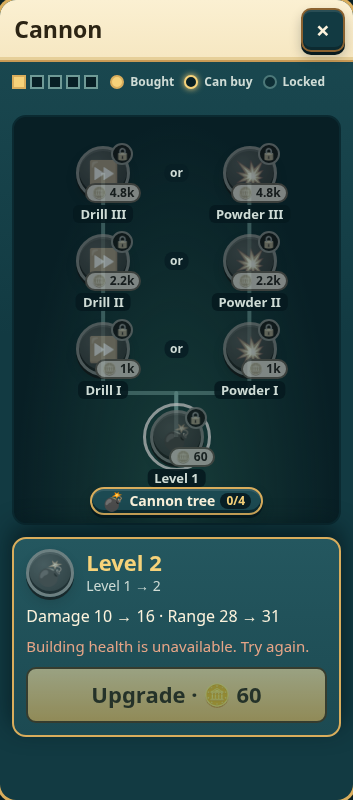
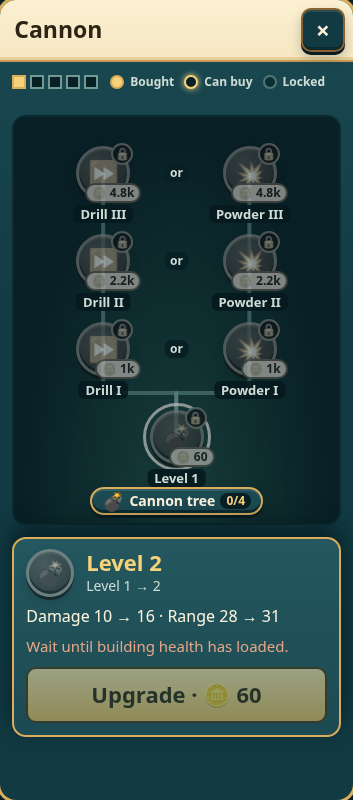
fix(T59): explain disabled upgrade while health loads

Changed region(s): [[0.0623, 0.7812, 0.8725, 0.8438]]

diff --git a/frontend/tests/island/structure-recovery-policy.test.js b/frontend/tests/island/structure-recovery-policy.test.js
@@ -150,7 +150,8 @@ it('does not downgrade a persisted v1 island when the structure endpoint says fe
     island.pick('cannon_1');
     await new Promise(resolve => setTimeout(resolve, 50));
     const upgrade = document.querySelector('.island-card[open] [data-focus="upgrade"]');
-    const tower = {message: document.querySelector('.recovery-message')?.textContent ?? '', upgradeDisabled: upgrade?.disabled ?? null};
+    const tower = {message: document.querySelector('.recovery-message')?.textContent ?? '', upgradeDisabled: upgrade?.disabled ?? null,
+      upgradeReason: document.querySelector('.island-card[open] .island-reason')?.textContent ?? ''};
     island.dispose();
     return {wall, tower};
     }, {retainForCapture: !!captureDir});
@@ -168,7 +169,8 @@ it('does not downgrade a persisted v1 island when the structure endpoint says fe
       island.pick('cannon_1');
       await new Promise(resolve => setTimeout(resolve, 50));
       const upgrade = document.querySelector('.island-card[open] [data-focus="upgrade"]');
-      return {message: document.querySelector('.recovery-message')?.textContent ?? '', upgradeDisabled: upgrade?.disabled ?? null};
+      return {message: document.querySelector('.recovery-message')?.textContent ?? '', upgradeDisabled: upgrade?.disabled ?? null,
+        upgradeReason: document.querySelector('.island-card[open] .island-reason')?.textContent ?? ''};
     });
     await page.setViewportSize({width: 375, height: 812});
     await page.locator('.island-card[open]').screenshot({path: join(captureDir, 't59-policy-fallback-cannon-phone.png')});
@@ -176,7 +178,8 @@ it('does not downgrade a persisted v1 island when the structure endpoint says fe
     return {...fixture, tower};
   });
   expect(result.wall).toEqual({message: 'Building health could not be loaded.', legacyRepair: false, policyVersion: 1});
-  expect(result.tower).toEqual({message: 'Building health could not be loaded.', upgradeDisabled: true});
+  expect(result.tower).toEqual({message: 'Building health could not be loaded.', upgradeDisabled: true,
+    upgradeReason: 'Wait until building health has loaded.'});
 });
 
 it('keeps a previously discovered v1 policy when a later structure read says feature_off', async () => {

diff --git a/frontend/tests/island/card-model.test.js b/frontend/tests/island/card-model.test.js
@@ -38,6 +38,22 @@ describe('build card (TOWER-DEFENSE.md §2, §9)', () => {
     expect(paths.tree.detail).toMatchObject({action: {type: 'tree', path: 'a', tier: 1}, disabled: false});
   });
 
+  it('keeps upgrades disabled with a health-load helper until canonical health is ready', () => {
+    const recovery = {recoveryVersion: 1, waveProtocol: 2, islandEpoch: '32345678-1234-4234-8234-123456789abc',
+      waveId: null, displayPhase: 'between_waves', repairWindow: 'between_waves', structures: [
+        {spot: 'cannon_1', instanceId: '22345678-1234-4234-8234-123456789abc', kind: 'cannon', level: 1,
+          hpUnits: 1_000_000, maxHP: 90, fixedPrice: 45, repairSeq: 0}]};
+    const card = recoveryStatus => buildCardModel({spotId: 'cannon_1', slot: 'tower', spot: tower(true), coins: 10_000,
+      unlocks: wave3, campaign: atWave(50), treePicked: 'level', recoveryState: recovery, recoveryStatus});
+
+    for (const status of ['loading', 'error']) {
+      expect(card(status)).toMatchObject({button: 'Upgrade', disabled: true, reason: 'Wait until building health has loaded.',
+        tree: {detail: {action: {type: 'upgrade'}, disabled: true, reason: 'Wait until building health has loaded.'}}});
+    }
+    expect(card('ready')).toMatchObject({button: 'Upgrade', disabled: false, reason: '',
+      tree: {detail: {action: {type: 'upgrade'}, disabled: false, reason: ''}}});
+  });
+
   it('an empty tower spot offers the unlocked kinds, one line and price each', () => {
     const start = buildCardModel({spotId: 'cannon_1', slot: 'tower', spot: tower(), coins: 100, unlocks: fresh});
     expect(start).toMatchObject({mode: 'choose', title: 'Tower spot', soon: '', coins: 'You have 🪙 100'});

diff --git a/frontend/src/island/card-model.js b/frontend/src/island/card-model.js
@@ -118,7 +118,7 @@ export function buildCardModel({spotId, kind, slot = null, spot = null, coins = 
     ? recoveryState.structures?.find(item => item.spot === spotId) : null;
   if (shown === 'wall' && recoveryRow) model.stats = model.stats.replace(/^Strength\b/, 'Base strength');
   const recoveryUnavailable = recoveryStatus === 'loading' || recoveryStatus === 'error';
-  const upgradeBlockedReason = recoveryUnavailable ? 'Building health is unavailable. Try again.'
+  const upgradeBlockedReason = recoveryUnavailable ? 'Wait until building health has loaded.'
     : recoveryRow && recoveryState.recoveryVersion === 1
     ? recoveryState.repairWindow === 'reserved_wave' ? 'Upgrades are available between waves.'
       : recoveryRow.hpUnits < 1_000_000 ? 'Repair to full before an upgrade.' : ''

diff --git a/specs/T59-recovery-policy-fallback.md b/specs/T59-recovery-policy-fallback.md
@@ -17,6 +17,8 @@ When the target island or the last canonical structure response identifies recov
 
 The browser fixture regression covers both a first `feature_off` response with canonical island version 1 and a later `feature_off` after recovery v1 was learned from a successful structure response. It checks that the error appears, legacy wall Repair stays hidden, tower upgrades stay disabled, and a later successful read restores the card. The fixture also exercises the existing version-0 fallback.
 
+While canonical health is loading or unavailable, an eligible Upgrade stays visible, greyed out and disabled with the small helper line “Wait until building health has loaded.” The separate health-load error and retry feedback remain visible. When canonical health is ready, the existing between-wave and full-HP eligibility rules apply.
+
 Focused frontend verification: `./node_modules/.bin/vitest run --maxWorkers=1 tests/island/structure-recovery-policy.test.js tests/island/structure-recovery-upgrade-dom.test.js tests/island/structure-recovery-card.test.js tests/island/structure-recovery-card-dom.test.js tests/island/card-model.test.js tests/island/structure-recovery-model.test.js tests/island/structure-recovery-api.test.js tests/island/captain-recovery-tree.test.js tests/campaign/captain-repair-policy.test.js` passed 103 tests across 9 files. These checks use local fixtures; they do not demonstrate live API, database, payment or multiplayer behavior.
 
-Optional browser fixture captures show the Wall health-load error at 1440 × 900 and the disabled Cannon upgrade at 375 × 812: [Wall](../frontend/captures/t59-policy-fallback-wall-error-desktop.png), [Cannon](../frontend/captures/t59-policy-fallback-cannon-phone.png). The cards are real DOM UI with production styles, driven by a local fake-island/API-shaped response; they are not live service evidence.
+Optional browser fixture captures show the Wall health-load error and disabled Cannon upgrade with the helper line at 1440 × 900 and 375 × 812: [Wall](../frontend/captures/t59-policy-fallback-wall-error-desktop.png), [Cannon](../frontend/captures/t59-policy-fallback-cannon-phone.png). The cards are real DOM UI with production styles, driven by a local fake-island/API-shaped response; they are not live service evidence.

diff --git a/docs/evidence/T59-repair-feedback/README.md b/docs/evidence/T59-repair-feedback/README.md
@@ -92,8 +92,8 @@ The optional screenshot mode renders the production DOM card with the production
 
 | Viewport | State | Screenshot |
 |---|---|---|
-| 1440 × 900 desktop | Saved-v1 Wall; health endpoint unavailable; legacy Repair is hidden | [Wall health error](../../../frontend/captures/t59-policy-fallback-wall-error-desktop.png) |
-| 375 × 812 phone | Saved-v1 Cannon; health endpoint unavailable; upgrade is disabled | [Cannon upgrade guard](../../../frontend/captures/t59-policy-fallback-cannon-phone.png) |
+| 1440 × 900 desktop | Saved-v1 Wall; health endpoint unavailable; Upgrade stays visible and disabled with the small wait helper; legacy Repair is hidden | [Wall health error](../../../frontend/captures/t59-policy-fallback-wall-error-desktop.png) |
+| 375 × 812 phone | Saved-v1 Cannon; health endpoint unavailable; visible Upgrade is disabled with “Wait until building health has loaded.” | [Cannon upgrade guard](../../../frontend/captures/t59-policy-fallback-cannon-phone.png) |
 
 Captured with:
 
@@ -101,7 +101,7 @@ Captured with:
 cd frontend && RECOVERY_POLICY_CAPTURE_DIR=captures ./node_modules/.bin/vitest run --maxWorkers=1 tests/island/structure-recovery-policy.test.js -t 'does not downgrade a persisted v1 island'
 ```
 
-Before the fix, the first-read fixture produced no recovery error and exposed the legacy wall Repair action. The cached-v1 case also allowed a tower upgrade after a later `feature_off` response. After the fix, both cases retain recovery v1 and display the health-load error; a later successful read restores the card.
+Before the fix, the first-read fixture produced no recovery error and exposed the legacy wall Repair action. The cached-v1 case also allowed a tower upgrade after a later `feature_off` response. After the fix, both cases retain recovery v1 and display the health-load error; an eligible Upgrade remains visible and disabled with the small wait helper until health loads. A later successful read restores normal eligibility.
 
 Verified with:
 

diff --git a/docs/STATUS.md b/docs/STATUS.md
@@ -1125,3 +1125,5 @@ Ianno / 2026-11-17 — T59 saved-v1 policy fallback (#344): a focused browser re
 Ianno / 2026-11-17 — T59 saved-v1 policy visual evidence: captured the saved-v1 Wall health-load error at desktop size and the disabled Cannon upgrade at 375 × 812 from the same local fake-island browser fixture. The focused capture command passed 1 test; the screenshots use the real DOM card and production styles, but no live service or payment path.
 
 Ianno / 2026-11-17 — T59 policy-fallback independent verification: both new first-read/cached-policy browser regressions passed independently; the production build passed in 1.45 seconds and spoiler guard across 241 text files passed. Inspected the desktop Wall error and phone Cannon disabled-upgrade component crops. Reviewed preservation of saved policy, retry recovery and last-known world damage; protected files and prior logs remain unchanged. Added current bug follow-ups to the task board. No bug-fix PR or live changes; manual review and publication confirmation remain pending.
+
+Ianno / 2026-11-18 — T59 health-wait helper: eligible tower Upgrades remain visible and disabled while canonical health is loading or unavailable, with the small helper “Wait until building health has loaded.” The separate health-load error stays visible; normal full-HP/between-wave eligibility applies after a ready response. Model coverage checks loading, error and ready states. Focused browser fixture regression passed 1/1 and refreshed the desktop/phone crops; focused card-model/policy/upgrade-DOM suites passed 42 tests across 3 files, production build/spoiler guard passed, and screenshots were visually reviewed. Local fixtures only; no live services, pricing, healing, release, activation or deployment changed.
